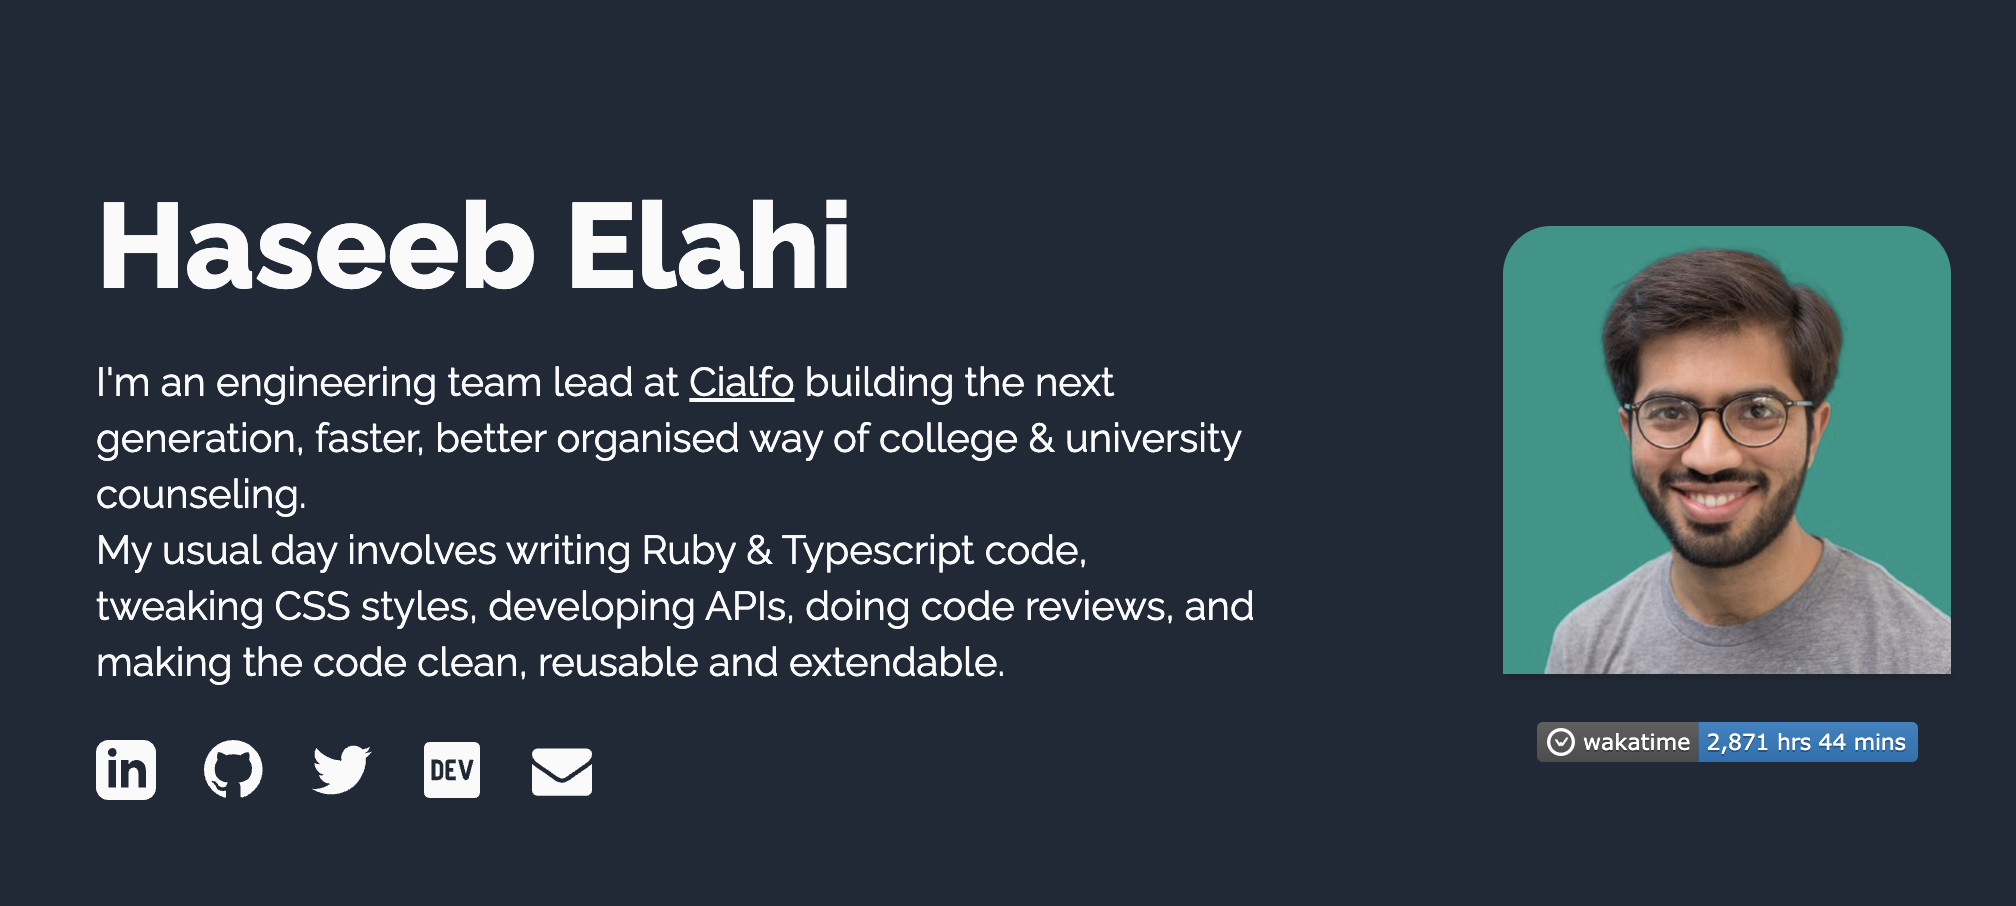
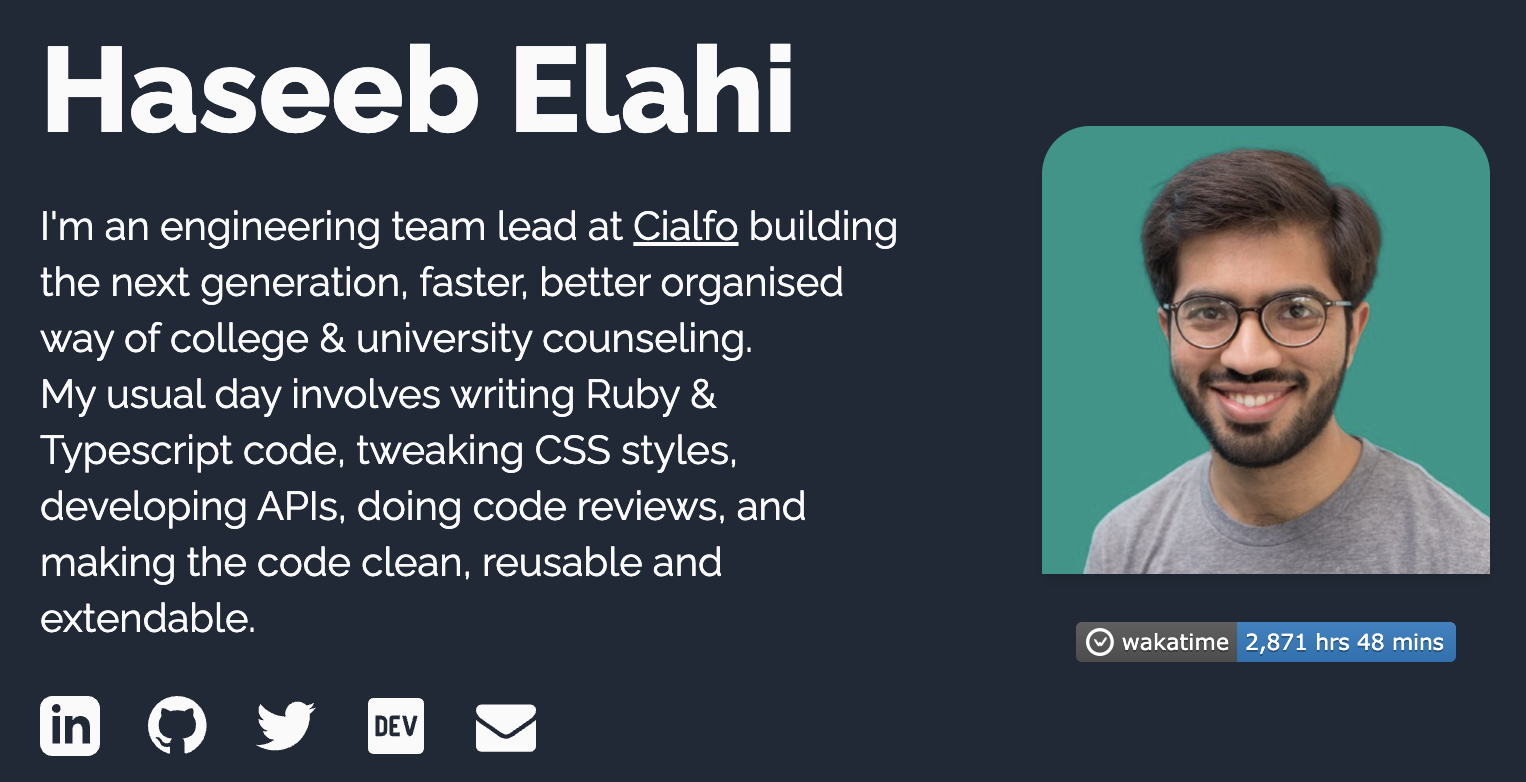
Updated og tags

diff --git a/index.html b/index.html
@@ -5,45 +5,91 @@
     <script async src="https://www.googletagmanager.com/gtag/js?id=G-09BHR9YW82"></script>
     <script>
       window.dataLayer = window.dataLayer || [];
-      function gtag(){dataLayer.push(arguments);}
+  
+      function gtag() {
+        dataLayer.push(arguments);
+      }
       gtag('js', new Date());
-
+  
       gtag('config', 'G-09BHR9YW82');
     </script>
     <meta charset="UTF-8" />
-    <meta property="og:title" content="Haseeb Elahi - Fullstack Software Engineer" />
-    <meta property="og:title" content="Personal Website" />
-    <meta property="og:description" content="I'm an engineering team lead at Cialfo building the next generation, faster, better organised way of college & university counseling. My usual day involves writing Ruby & Typescript code, tweaking CSS styles, developing APIs, doing code reviews, and making the code clean, reusable and extendable." />
-    <meta property="og:image" content="link-preview.png"/>
+  
+    <!-- HTML Meta Tags -->
+    <title>Personal Website</title>
+    <meta name="description"
+      content="I'm an engineering team lead at Cialfo building the next generation, faster, better organised way of college & university counseling. My usual day involves writing Ruby & Typescript code, tweaking CSS styles, developing APIs, doing code reviews, and making the code clean, reusable and extendable." />
+  
+    <!-- Facebook Meta Tags -->
     <meta property="og:url" content="https://haseebelahi.dev/" />
+    <meta property="og:type" content="website">
+    <meta property="og:title" content="Haseeb Elahi - Fullstack Software Engineer" />
+    <meta property="og:description"
+      content="I'm an engineering team lead at Cialfo building the next generation, faster, better organised way of college & university counseling. My usual day involves writing Ruby & Typescript code, tweaking CSS styles, developing APIs, doing code reviews, and making the code clean, reusable and extendable." />
+    <meta property="og:image" content="https://haseebelahi.dev/link-preview.png" />
+  
+    <!-- Twitter Meta Tags -->
+    <meta name="twitter:card" content="summary_large_image" />
+    <meta property="twitter:domain" content="haseebelahi.dev" />
+    <meta property="twitter:url" content="https://haseebelahi.dev/" />
+    <meta name="twitter:title" content="Personal Website">
+    <meta name="twitter:description"
+      content="I'm an engineering team lead at Cialfo building the next generation, faster, better organised way of college & university counseling. My usual day involves writing Ruby & Typescript code, tweaking CSS styles, developing APIs, doing code reviews, and making the code clean, reusable and extendable." />
+    <meta name="twitter:image" content="https://haseebelahi.dev/link-preview.png" />
+  
+  
     <link rel="stylesheet" href="/src/style.css">
     <meta name="viewport" content="width=device-width, initial-scale=1.0" />
     <title>Haseeb Elahi</title>
   </head>
   <body class="text-gray-800 font-raleway bg-neutral-50 dark:bg-gray-800 dark:text-neutral-50">
-    <div class="py-24 sm:py-36 px-8 sm:px-16 max-w-6xl m-auto">
+    <div class="py-24 sm:py-36 px-8 sm:px-16 max-w-4xl m-auto">
       <div class="flex flex-col sm:flex-row sm:justify-center mb-8 gap-6 items-center saturate-50 hover:filter-none">
         <div class="w-full sm:w-7/12 flex flex-col gap-y-6 sm:order-1 order-2 items-center sm:items-start">
           <h1 class="text-6xl font-bold text-center sm:text-start">Haseeb Elahi</h1>
           <p class="text-xl">
-            I'm an engineering team lead at <a class="underline hover:text-yellow-600" href="https://www.cialfo.co/" target="_blank">Cialfo</a> building the next generation, faster, better organised way of college & university counseling. <br/>
-            My usual day involves writing Ruby & Typescript code, tweaking CSS styles, developing APIs, doing code reviews, and making the code clean, reusable and extendable.
+            I'm an engineering team lead at <a class="underline hover:text-yellow-600" href="https://www.cialfo.co/"
+              target="_blank">Cialfo</a> building the next generation, faster, better organised way of college &
+            university counseling. <br />
+            My usual day involves writing Ruby & Typescript code, tweaking CSS styles, developing APIs, doing code
+            reviews, and making the code clean, reusable and extendable.
           </p>
           <div class="flex items-center gap-6">
             <a href="https://www.linkedin.com/in/haseebelaahi/" target="_blank">
-              <svg class="fill-zinc-600 hover:fill-yellow-600 dark:fill-neutral-50" xmlns="http://www.w3.org/2000/svg" width="30" height="30" viewBox="0 0 24 24"><path d="M19 0h-14c-2.761 0-5 2.239-5 5v14c0 2.761 2.239 5 5 5h14c2.762 0 5-2.239 5-5v-14c0-2.761-2.238-5-5-5zm-11 19h-3v-11h3v11zm-1.5-12.268c-.966 0-1.75-.79-1.75-1.764s.784-1.764 1.75-1.764 1.75.79 1.75 1.764-.783 1.764-1.75 1.764zm13.5 12.268h-3v-5.604c0-3.368-4-3.113-4 0v5.604h-3v-11h3v1.765c1.396-2.586 7-2.777 7 2.476v6.759z"/></svg>
+              <svg class="fill-zinc-600 hover:fill-yellow-600 dark:fill-neutral-50" xmlns="http://www.w3.org/2000/svg"
+                width="30" height="30" viewBox="0 0 24 24">
+                <path
+                  d="M19 0h-14c-2.761 0-5 2.239-5 5v14c0 2.761 2.239 5 5 5h14c2.762 0 5-2.239 5-5v-14c0-2.761-2.238-5-5-5zm-11 19h-3v-11h3v11zm-1.5-12.268c-.966 0-1.75-.79-1.75-1.764s.784-1.764 1.75-1.764 1.75.79 1.75 1.764-.783 1.764-1.75 1.764zm13.5 12.268h-3v-5.604c0-3.368-4-3.113-4 0v5.604h-3v-11h3v1.765c1.396-2.586 7-2.777 7 2.476v6.759z" />
+              </svg>
             </a>
             <a href="https://github.com/haseebelahi" target="_blank">
-              <svg class="fill-zinc-600 hover:fill-yellow-600 dark:fill-neutral-50" viewBox="0 0 100 100" width="30" height="30" xmlns="http://www.w3.org/2000/svg"><path fill-rule="evenodd" clip-rule="evenodd" d="M48.854 0C21.839 0 0 22 0 49.217c0 21.756 13.993 40.172 33.405 46.69 2.427.49 3.316-1.059 3.316-2.362 0-1.141-.08-5.052-.08-9.127-13.59 2.934-16.42-5.867-16.42-5.867-2.184-5.704-5.42-7.17-5.42-7.17-4.448-3.015.324-3.015.324-3.015 4.934.326 7.523 5.052 7.523 5.052 4.367 7.496 11.404 5.378 14.235 4.074.404-3.178 1.699-5.378 3.074-6.6-10.839-1.141-22.243-5.378-22.243-24.283 0-5.378 1.94-9.778 5.014-13.2-.485-1.222-2.184-6.275.486-13.038 0 0 4.125-1.304 13.426 5.052a46.97 46.97 0 0 1 12.214-1.63c4.125 0 8.33.571 12.213 1.63 9.302-6.356 13.427-5.052 13.427-5.052 2.67 6.763.97 11.816.485 13.038 3.155 3.422 5.015 7.822 5.015 13.2 0 18.905-11.404 23.06-22.324 24.283 1.78 1.548 3.316 4.481 3.316 9.126 0 6.6-.08 11.897-.08 13.526 0 1.304.89 2.853 3.316 2.364 19.412-6.52 33.405-24.935 33.405-46.691C97.707 22 75.788 0 48.854 0z"/></svg>
+              <svg class="fill-zinc-600 hover:fill-yellow-600 dark:fill-neutral-50" viewBox="0 0 100 100" width="30"
+                height="30" xmlns="http://www.w3.org/2000/svg">
+                <path fill-rule="evenodd" clip-rule="evenodd"
+                  d="M48.854 0C21.839 0 0 22 0 49.217c0 21.756 13.993 40.172 33.405 46.69 2.427.49 3.316-1.059 3.316-2.362 0-1.141-.08-5.052-.08-9.127-13.59 2.934-16.42-5.867-16.42-5.867-2.184-5.704-5.42-7.17-5.42-7.17-4.448-3.015.324-3.015.324-3.015 4.934.326 7.523 5.052 7.523 5.052 4.367 7.496 11.404 5.378 14.235 4.074.404-3.178 1.699-5.378 3.074-6.6-10.839-1.141-22.243-5.378-22.243-24.283 0-5.378 1.94-9.778 5.014-13.2-.485-1.222-2.184-6.275.486-13.038 0 0 4.125-1.304 13.426 5.052a46.97 46.97 0 0 1 12.214-1.63c4.125 0 8.33.571 12.213 1.63 9.302-6.356 13.427-5.052 13.427-5.052 2.67 6.763.97 11.816.485 13.038 3.155 3.422 5.015 7.822 5.015 13.2 0 18.905-11.404 23.06-22.324 24.283 1.78 1.548 3.316 4.481 3.316 9.126 0 6.6-.08 11.897-.08 13.526 0 1.304.89 2.853 3.316 2.364 19.412-6.52 33.405-24.935 33.405-46.691C97.707 22 75.788 0 48.854 0z" />
+              </svg>
             </a>
             <a href="https://twitter.com/haseebelaahi" target="_blank">
-              <svg class="fill-zinc-600 hover:fill-yellow-600 dark:fill-neutral-50" xmlns="http://www.w3.org/2000/svg" width="30" height="30" viewBox="0 0 24 24"><path d="M24 4.557c-.883.392-1.832.656-2.828.775 1.017-.609 1.798-1.574 2.165-2.724-.951.564-2.005.974-3.127 1.195-.897-.957-2.178-1.555-3.594-1.555-3.179 0-5.515 2.966-4.797 6.045-4.091-.205-7.719-2.165-10.148-5.144-1.29 2.213-.669 5.108 1.523 6.574-.806-.026-1.566-.247-2.229-.616-.054 2.281 1.581 4.415 3.949 4.89-.693.188-1.452.232-2.224.084.626 1.956 2.444 3.379 4.6 3.419-2.07 1.623-4.678 2.348-7.29 2.04 2.179 1.397 4.768 2.212 7.548 2.212 9.142 0 14.307-7.721 13.995-14.646.962-.695 1.797-1.562 2.457-2.549z"/></svg>
+              <svg class="fill-zinc-600 hover:fill-yellow-600 dark:fill-neutral-50" xmlns="http://www.w3.org/2000/svg"
+                width="30" height="30" viewBox="0 0 24 24">
+                <path
+                  d="M24 4.557c-.883.392-1.832.656-2.828.775 1.017-.609 1.798-1.574 2.165-2.724-.951.564-2.005.974-3.127 1.195-.897-.957-2.178-1.555-3.594-1.555-3.179 0-5.515 2.966-4.797 6.045-4.091-.205-7.719-2.165-10.148-5.144-1.29 2.213-.669 5.108 1.523 6.574-.806-.026-1.566-.247-2.229-.616-.054 2.281 1.581 4.415 3.949 4.89-.693.188-1.452.232-2.224.084.626 1.956 2.444 3.379 4.6 3.419-2.07 1.623-4.678 2.348-7.29 2.04 2.179 1.397 4.768 2.212 7.548 2.212 9.142 0 14.307-7.721 13.995-14.646.962-.695 1.797-1.562 2.457-2.549z" />
+              </svg>
             </a>
             <a href="https://dev.to/haseebelaahi" target="_blank">
-              <svg class="fill-zinc-600 hover:fill-yellow-600 dark:fill-neutral-50" role="img" xmlns="http://www.w3.org/2000/svg" width="32" height="32" viewBox="0 0 448 512"><path d="M120.12 208.29c-3.88-2.9-7.77-4.35-11.65-4.35H91.03v104.47h17.45c3.88 0 7.77-1.45 11.65-4.35 3.88-2.9 5.82-7.25 5.82-13.06v-69.65c-.01-5.8-1.96-10.16-5.83-13.06zM404.1 32H43.9C19.7 32 .06 51.59 0 75.8v360.4C.06 460.41 19.7 480 43.9 480h360.2c24.21 0 43.84-19.59 43.9-43.8V75.8c-.06-24.21-19.7-43.8-43.9-43.8zM154.2 291.19c0 18.81-11.61 47.31-48.36 47.25h-46.4V172.98h47.38c35.44 0 47.36 28.46 47.37 47.28l.01 70.93zm100.68-88.66H201.6v38.42h32.57v29.57H201.6v38.41h53.29v29.57h-62.18c-11.16.29-20.44-8.53-20.72-19.69V193.7c-.27-11.15 8.56-20.41 19.71-20.69h63.19l-.01 29.52zm103.64 115.29c-13.2 30.75-36.85 24.63-47.44 0l-38.53-144.8h32.57l29.71 113.72 29.57-113.72h32.58l-38.46 144.8z"></path></svg>
+              <svg class="fill-zinc-600 hover:fill-yellow-600 dark:fill-neutral-50" role="img"
+                xmlns="http://www.w3.org/2000/svg" width="32" height="32" viewBox="0 0 448 512">
+                <path
+                  d="M120.12 208.29c-3.88-2.9-7.77-4.35-11.65-4.35H91.03v104.47h17.45c3.88 0 7.77-1.45 11.65-4.35 3.88-2.9 5.82-7.25 5.82-13.06v-69.65c-.01-5.8-1.96-10.16-5.83-13.06zM404.1 32H43.9C19.7 32 .06 51.59 0 75.8v360.4C.06 460.41 19.7 480 43.9 480h360.2c24.21 0 43.84-19.59 43.9-43.8V75.8c-.06-24.21-19.7-43.8-43.9-43.8zM154.2 291.19c0 18.81-11.61 47.31-48.36 47.25h-46.4V172.98h47.38c35.44 0 47.36 28.46 47.37 47.28l.01 70.93zm100.68-88.66H201.6v38.42h32.57v29.57H201.6v38.41h53.29v29.57h-62.18c-11.16.29-20.44-8.53-20.72-19.69V193.7c-.27-11.15 8.56-20.41 19.71-20.69h63.19l-.01 29.52zm103.64 115.29c-13.2 30.75-36.85 24.63-47.44 0l-38.53-144.8h32.57l29.71 113.72 29.57-113.72h32.58l-38.46 144.8z">
+                </path>
+              </svg>
             </a>
             <a href="mailto:haseebelaahi@gmail.com">
-              <svg class="fill-zinc-600 hover:fill-yellow-600 dark:fill-neutral-50" width="30" height="30" viewBox="0 0 1792 1792" width="1792" xmlns="http://www.w3.org/2000/svg"><path d="M1792 710v794q0 66-47 113t-113 47h-1472q-66 0-113-47t-47-113v-794q44 49 101 87 362 246 497 345 57 42 92.5 65.5t94.5 48 110 24.5h2q51 0 110-24.5t94.5-48 92.5-65.5q170-123 498-345 57-39 100-87zm0-294q0 79-49 151t-122 123q-376 261-468 325-10 7-42.5 30.5t-54 38-52 32.5-57.5 27-50 9h-2q-23 0-50-9t-57.5-27-52-32.5-54-38-42.5-30.5q-91-64-262-182.5t-205-142.5q-62-42-117-115.5t-55-136.5q0-78 41.5-130t118.5-52h1472q65 0 112.5 47t47.5 113z"/></svg>
+              <svg class="fill-zinc-600 hover:fill-yellow-600 dark:fill-neutral-50" width="30" height="30"
+                viewBox="0 0 1792 1792" width="1792" xmlns="http://www.w3.org/2000/svg">
+                <path
+                  d="M1792 710v794q0 66-47 113t-113 47h-1472q-66 0-113-47t-47-113v-794q44 49 101 87 362 246 497 345 57 42 92.5 65.5t94.5 48 110 24.5h2q51 0 110-24.5t94.5-48 92.5-65.5q170-123 498-345 57-39 100-87zm0-294q0 79-49 151t-122 123q-376 261-468 325-10 7-42.5 30.5t-54 38-52 32.5-57.5 27-50 9h-2q-23 0-50-9t-57.5-27-52-32.5-54-38-42.5-30.5q-91-64-262-182.5t-205-142.5q-62-42-117-115.5t-55-136.5q0-78 41.5-130t118.5-52h1472q65 0 112.5 47t47.5 113z" />
+              </svg>
             </a>
           </div>
         </div>
@@ -51,10 +97,13 @@
           <a href="https://www.instagram.com/haseebelahi/" target="_blank">
             <img class="aspect-square w-56 rounded-t-3xl object-cover shadow-md" src="haseeb.jpg" alt="Haseeb's picture">
           </a>
-          <a href="https://wakatime.com/@a1202ccb-b941-45f6-8c52-52fb12013fcd"><img src="https://wakatime.com/badge/user/a1202ccb-b941-45f6-8c52-52fb12013fcd.svg" alt="Total time coded since Jul 1 2019" /></a>
+          <a href="https://wakatime.com/@a1202ccb-b941-45f6-8c52-52fb12013fcd"><img
+              src="https://wakatime.com/badge/user/a1202ccb-b941-45f6-8c52-52fb12013fcd.svg"
+              alt="Total time coded since Jul 1 2019" /></a>
         </div>
       </div>
-      <div class="mt-20 flex flex-col sm:flex-row items-center sm:items-start gap-x-6 gap-y-12 saturate-50 hover:saturate-100 dark:filter-none">
+      <div
+        class="mt-20 flex flex-col sm:flex-row items-center sm:items-start gap-x-6 gap-y-12 saturate-50 hover:saturate-100 dark:filter-none">
         <div class="w-full sm:w-6/12">
           <h2 class="text-4xl font-semibold mb-8">Work Experience</h2>
           <div class="flex flex-col gap-6">
@@ -73,8 +122,8 @@
               <a class="hover:saturate-200 mr-4" href="https://quantified.ai" target="_blank">
                 <img class="w-28 inline" src="logos/quantified.svg">
               </a>
-              <p class="text-xl mt-4 font-semibold">Conrad Labs (Nov 2018 - Feb 2022)</p>  
-              <p class="text-lg font-semibold">Senior Software Engineer</p>   
+              <p class="text-xl mt-4 font-semibold">Conrad Labs (Nov 2018 - Feb 2022)</p>
+              <p class="text-lg font-semibold">Senior Software Engineer</p>
             </div>
             <div>
               <a class="hover:saturate-200" href="https://techlogix.com" target="_blank">
@@ -82,9 +131,9 @@
                 <img class="w-32 hidden dark:inline" src="logos/techlogix-dark.png">
               </a>
               <p class="text-xl mt-4 font-semibold">Techlogix (Jul 2017 - Oct 2018)</p>
-              <p class="text-lg font-semibold">Software Engineer</p>  
+              <p class="text-lg font-semibold">Software Engineer</p>
             </div>
-            
+  
           </div>
         </div>
         <div class="w-full  sm:w-6/12">
@@ -122,31 +171,40 @@
           </div>
         </div>
       </div>
-      <p class="text-xl mt-12">Please refer to my <a class="underline hover:text-yellow-600" href="haseeb-elahi-cv.pdf" target="_blank">Curriculum vitae</a> for more details about my work experience.</p>
+      <p class="text-xl mt-12">Please refer to my <a class="underline hover:text-yellow-600" href="haseeb-elahi-cv.pdf"
+          target="_blank">Curriculum vitae</a> for more details about my work experience.</p>
       <div class="mt-20">
         <h2 class="text-4xl font-semibold mb-8">Recent Activity</h2>
         <div class="text-xl underline">
-          <a class="hover:text-yellow-600" href="https://blog.haseebelahi.dev/understanding-pwas-exploring-the-twitter-pwa-with-dev-tools" target="_blank">
+          <a class="hover:text-yellow-600"
+            href="https://blog.haseebelahi.dev/understanding-pwas-exploring-the-twitter-pwa-with-dev-tools"
+            target="_blank">
             ✍ Understanding PWAs - Exploring the Twitter PWA with Dev Tools
           </a>
-          <br/><br/>
+          <br /><br />
           <a class="hover:text-yellow-600" href="https://codepen.io/haseebelahi-the-looper/pen/vYXjrPa" target="_blank">
             💻 Popsicle - CSS Art
           </a>
-          <br/><br/>
-          <a class="hover:text-yellow-600" href="https://dev.to/haseebelaahi/what-not-to-do-as-a-programmer-my-list-after-2-years-of-working-with-teams-1b23" target="_blank">
+          <br /><br />
+          <a class="hover:text-yellow-600"
+            href="https://dev.to/haseebelaahi/what-not-to-do-as-a-programmer-my-list-after-2-years-of-working-with-teams-1b23"
+            target="_blank">
             ✍ What Not to Do as a Programmer - My List After 2 Years of Working In Teams
           </a>
-          <br/><br/>
+          <br /><br />
           <a class="hover:text-yellow-600" href="https://codepen.io/haseebelahi-the-looper/pen/vYXjrPa" target="_blank">
             💻 Pakistan Flag - CSS Art
           </a>
-          <br/><br/>
-          <a class="hover:text-yellow-600" href="https://dev.to/haseebelaahi/how-to-work-with-a-not-so-perfect-codebase-based-on-my-experience-of-working-in-one-3pb1" target="_blank">
+          <br /><br />
+          <a class="hover:text-yellow-600"
+            href="https://dev.to/haseebelaahi/how-to-work-with-a-not-so-perfect-codebase-based-on-my-experience-of-working-in-one-3pb1"
+            target="_blank">
             ✍ How to Work with a Not so Perfect Codebase - Based on My Experience of Working in One!
           </a>
-          <br/><br/>
-          <a class="hover:text-yellow-600" href="https://blog.haseebelahi.dev/what-i-found-when-i-went-through-my-facebook-location-data" target="_blank">
+          <br /><br />
+          <a class="hover:text-yellow-600"
+            href="https://blog.haseebelahi.dev/what-i-found-when-i-went-through-my-facebook-location-data"
+            target="_blank">
             ✍ What I Found When I Went Through My Facebook Location Data
           </a>
         </div>
@@ -154,8 +212,12 @@
     </div>
     <div class="relative inset-x-0 bottom-0 p-4 w-full dark:bg-neutral-50 bg-gray-800">
       <div class="max-w-5xl m-auto flex flex-col sm:flex-row items-center justify-between">
-        <a href="https://wakatime.com/badge/user/a1202ccb-b941-45f6-8c52-52fb12013fcd/project/f8554cce-78b0-49f3-a484-76d8067d55e9"><img src="https://wakatime.com/badge/user/a1202ccb-b941-45f6-8c52-52fb12013fcd/project/f8554cce-78b0-49f3-a484-76d8067d55e9.svg" alt="wakatime"></a>
-        <p class="text-sm dark:text-gray-800 text-neutral-50 mt-4 sm:mt-0">Haseeb Elahi | Copyright © 2023 All rights reserved.</p>
+        <a
+          href="https://wakatime.com/badge/user/a1202ccb-b941-45f6-8c52-52fb12013fcd/project/f8554cce-78b0-49f3-a484-76d8067d55e9"><img
+            src="https://wakatime.com/badge/user/a1202ccb-b941-45f6-8c52-52fb12013fcd/project/f8554cce-78b0-49f3-a484-76d8067d55e9.svg"
+            alt="wakatime"></a>
+        <p class="text-sm dark:text-gray-800 text-neutral-50 mt-4 sm:mt-0">Haseeb Elahi | Copyright © 2023 All rights
+          reserved.</p>
       </div>
     </div>
   </body>
